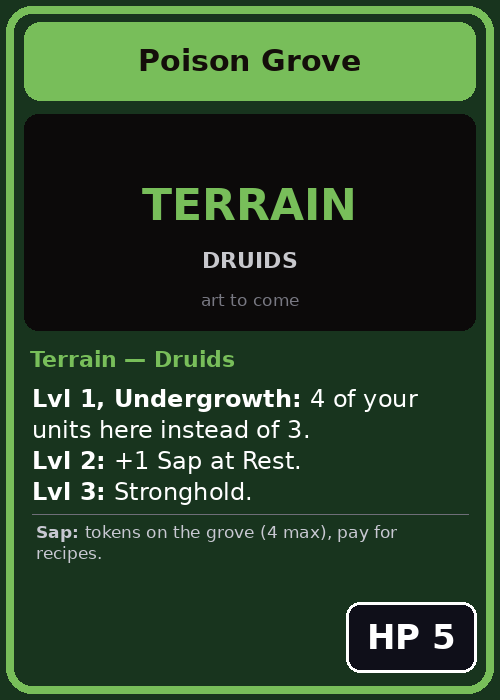
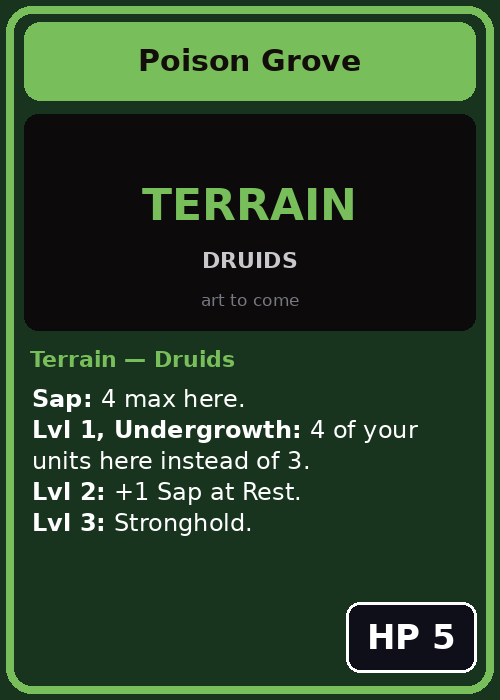
Jeton Ressource universel + max de ressources sur les Terrains (#8)
* TCG Arena : jeton Ressource universel, Glyphe en carte jeton

Sève, Arcane et Mise remplacés par un seul jeton Ressource. Le Glyphe
devient une carte jeton (clic droit sur Orsin, Sanctuaire runique, Scribe,
Maître des glyphes, Citadelle) à poser dans l'Expédition.

Claude-Session: https://claude.ai/code/session_018wG5fVkDBEitvce4sJryec

* Terrains : max de ressources affiché ; Glyphe redevient un jeton (sur le monstre)

Claude-Session: https://claude.ai/code/session_018wG5fVkDBEitvce4sJryec

---------

Changed region(s): [[0.06, 0.54, 0.84, 0.81]]

diff --git a/tools/from_bible.py b/tools/from_bible.py
@@ -328,11 +328,11 @@ def ecrire_cartes(cards_list):
 
 # --- jetons à glisser sur les cartes (même style que format_v3) ---
 JETONS_NEUFS = [
-    ("Arcane", "Arcane (Mages) : jetons sur le cercle, payent les Incantations", "ARCANE", (80, 90, 190)),
-    ("Mise", "Mise (Tonneau des paris) : 3 Mises = 1 trésor au Retrait", "MISE", (200, 160, 30)),
+    ("Ressource", "Ressource : Sève, Arcane ou Mise, sur ton Terrain (1 jeton = 1)", "◆", (200, 160, 30)),
     ("Egide", "Égide : ignore le prochain coup reçu", "ÉGIDE", (90, 160, 200)),
     ("Glyphe", "Glyphe (Mages) : 1 dégât et Sonné à la 1re unité adverse qui entre ou attaque ici", "GLY|PHE", (110, 60, 180)),
 ]
+JETONS_RETIRES = {"Seve", "Arcane", "Mise"}   # remplacés par Ressource
 NOMS = {  # libellés à jour des jetons existants
     "Sonne": "Sonné : ne frappe pas à son prochain combat",
     "GueuleDeBois": "Gueule de bois : Sonné jusqu'à la fin de ton prochain tour (Rhum)",
@@ -369,7 +369,7 @@ AIDE = [
     "Raid (dès la manche 2, 1 par Assaut) : après un kill dans une salle, tes unités de cette salle attaquent le Camp adverse. Réussi si plus de raiders que de défenseurs debout (Gardien compris) : 1 trésor volé, +1 si le Gardien est Assommé.",
     "Monstre tué : l'hôte le met dans « Monstres vaincus », le tueur ajoute ses trésors (pastille dorée) à son compteur. Icône Relique : « Prendre la relique » dans le panneau Donjon. Automatique : salles vides remplies au début de chaque tour ; évolution en fin de manche.",
     "Terrain : commence à côté du Gardien, glisse-le dans une Expédition à ton 1er Assaut. Niv 1 à la pose, +1 au Retrait s'il n'a pas bougé (3 max, niv. 3 = Fief). Lever le camp : Expédition voisine, -1 niveau. Détruit par l'adversaire : +1 trésor pour lui (pillage), revient au niv. 1 à ton Assaut suivant.",
-    "Compteur = Trésors. PV et Puissance : compteurs de la carte (clic droit > Toggle counter 1 = PV, touche C ; counter 2 = Puissance, Ctrl C). Jetons : Sève, Arcane, Mise, Niveau 1-3, états (Sonné, Empoisonné, Rapide, Insensible, Ivre, Gueule de bois, Contrecoup, Entravé, En soin, Égide, Piège, Glyphe).",
+    "Compteur = Trésors. PV et Puissance : compteurs de la carte (clic droit > Toggle counter 1 = PV, touche C ; counter 2 = Puissance, Ctrl C). Jetons à glisser sur les cartes : Ressource (Sève, Arcane ou Mise : 1 jeton = 1, sur ton Terrain), Niveau 1-3, états (Sonné, Empoisonné, Rapide, Insensible, Ivre, Gueule de bois, Contrecoup, Entravé, En soin, Égide, Piège, Glyphe). Glyphe : glisse-le sur le monstre de sa salle.",
     "Deck : 1 Gardien + 1 Terrain de sa faction + 30 cartes de la faction, dont 20 min. du pool du Gardien (3 ex. max, Signature 1). TCG Arena ne vérifie pas la règle des 20.",
     "Jetons Pousse et Loup : clic droit sur la carte qui les invoque.",
 ]
@@ -386,7 +386,7 @@ AIDE_EN = [  # à garder en phase avec AIDE
     "Raid (from round 2, 1 per Assault): after a kill in a room, your units in that room attack the enemy Camp. Success if more raiders than standing defenders (Guardian included): 1 treasure stolen, +1 if the Guardian is Knocked out.",
     "Monster killed: the host puts it in “Defeated monsters”, the killer adds its treasure (gold badge) to their counter. Relic icon: “Take the relic” in the Dungeon panel. Automatic: empty rooms refilled at the start of each turn; evolution at the end of the round.",
     "Terrain: starts next to the Guardian, drag it to an Expedition on your 1st Assault. Lvl 1 when placed, +1 at Withdrawal if it didn't move (3 max, lvl 3 = Stronghold). Break camp: neighboring Expedition, -1 level. Destroyed by the opponent: +1 treasure for them (plunder), comes back at lvl 1 on your next Assault.",
-    "Counter = Treasure. HP and Power: card counters (right click > Toggle counter 1 = HP, key C; counter 2 = Power, Ctrl C). Tokens: Sap, Arcana, Wager, Level 1-3, states (Stunned, Poisoned, Swift, Unflinching, Tipsy, Hangover, Backlash, Snared, Recovering, Aegis, Trap, Glyph).",
+    "Counter = Treasure. HP and Power: card counters (right click > Toggle counter 1 = HP, key C; counter 2 = Power, Ctrl C). Tokens to drag onto cards: Resource (Sap, Arcana or Wager: 1 token = 1, on your Terrain), Level 1-3, states (Stunned, Poisoned, Swift, Unflinching, Tipsy, Hangover, Backlash, Snared, Recovering, Aegis, Trap, Glyph). Glyph: drag it onto the monster of its room.",
     "Deck: 1 Guardian + 1 Terrain of its faction + 30 cards of the faction, including 20 min. from the Guardian's pool (3 copies max, Signature 1). TCG Arena doesn't check the rule of 20.",
     "Sprout and Wolf tokens: right click on the card that summons them.",
     "Language: Options menu (English / Français).",
@@ -405,7 +405,8 @@ UI_EN = {
     "Monstres vaincus": "Defeated monsters", "Énergie": "Energy", "Donjon": "Dungeon",
     "Expédition 1": "Expedition 1", "Expédition 2": "Expedition 2", "Expédition 3": "Expedition 3",
     "Expédition 4": "Expedition 4", "Coulisse": "Backstage",
-    "Sève": "Sap", "Niveau 1": "Level 1", "Niveau 2": "Level 2", "Niveau 3 (Fief)": "Level 3 (Stronghold)",
+    "Ressource : Sève, Arcane ou Mise, sur ton Terrain (1 jeton = 1)": "Resource: Sap, Arcana or Wager, on your Terrain (1 token = 1)",
+    "Niveau 1": "Level 1", "Niveau 2": "Level 2", "Niveau 3 (Fief)": "Level 3 (Stronghold)",
     "Sonné : ne frappe pas à son prochain combat": "Stunned: doesn't strike in its next combat",
     "Empoisonné : perd 1 PV à chaque Repos de son propriétaire, jusqu'à être soigné":
         "Poisoned: loses 1 HP at each of its owner's Rests, until healed",
@@ -418,8 +419,6 @@ UI_EN = {
     "En soin : blessé au Camp, soigné à ton prochain Repos puis reste au Camp ce tour":
         "Recovering: wounded in the Camp, healed at your next Rest then stays in the Camp that turn",
     "Piège (Éclaireur), face cachée ; Leurre possible": "Trap (Scout), face down; Decoy possible",
-    "Arcane (Mages) : jetons sur le cercle, payent les Incantations": "Arcana (Mages): tokens on the circle, pay for Incantations",
-    "Mise (Tonneau des paris) : 3 Mises = 1 trésor au Retrait": "Wager (Betting Keg): 3 Wagers = 1 treasure at Withdrawal",
     "Égide : ignore le prochain coup reçu": "Aegis: ignores the next hit received",
     "Glyphe (Mages) : 1 dégât et Sonné à la 1re unité adverse qui entre ou attaque ici":
         "Glyph (Mages): 1 damage and Stunned to the 1st enemy unit that enters or attacks here",
@@ -450,7 +449,11 @@ def maj_gamefile():
     p = os.path.join(ROOT, "gamefile.json")
     g = json.load(open(p, encoding="utf-8"))
     G = g["gameplay"]["Standard"]
-    toks = [t for t in G["draggableTokens"] if t["id"] not in {j[0] for j in JETONS_NEUFS}]
+    toks = [t for t in G["draggableTokens"] if t["id"] not in {j[0] for j in JETONS_NEUFS} | JETONS_RETIRES]
+    for tid in JETONS_RETIRES:
+        img = os.path.join(ROOT, "img", "tokens", f"{tid.lower()}.png")
+        if os.path.exists(img):
+            os.remove(img)
     for t in toks:
         t["name"] = NOMS.get(t["id"], t["name"])
     for tid, nom, txt, coul in JETONS_NEUFS:
